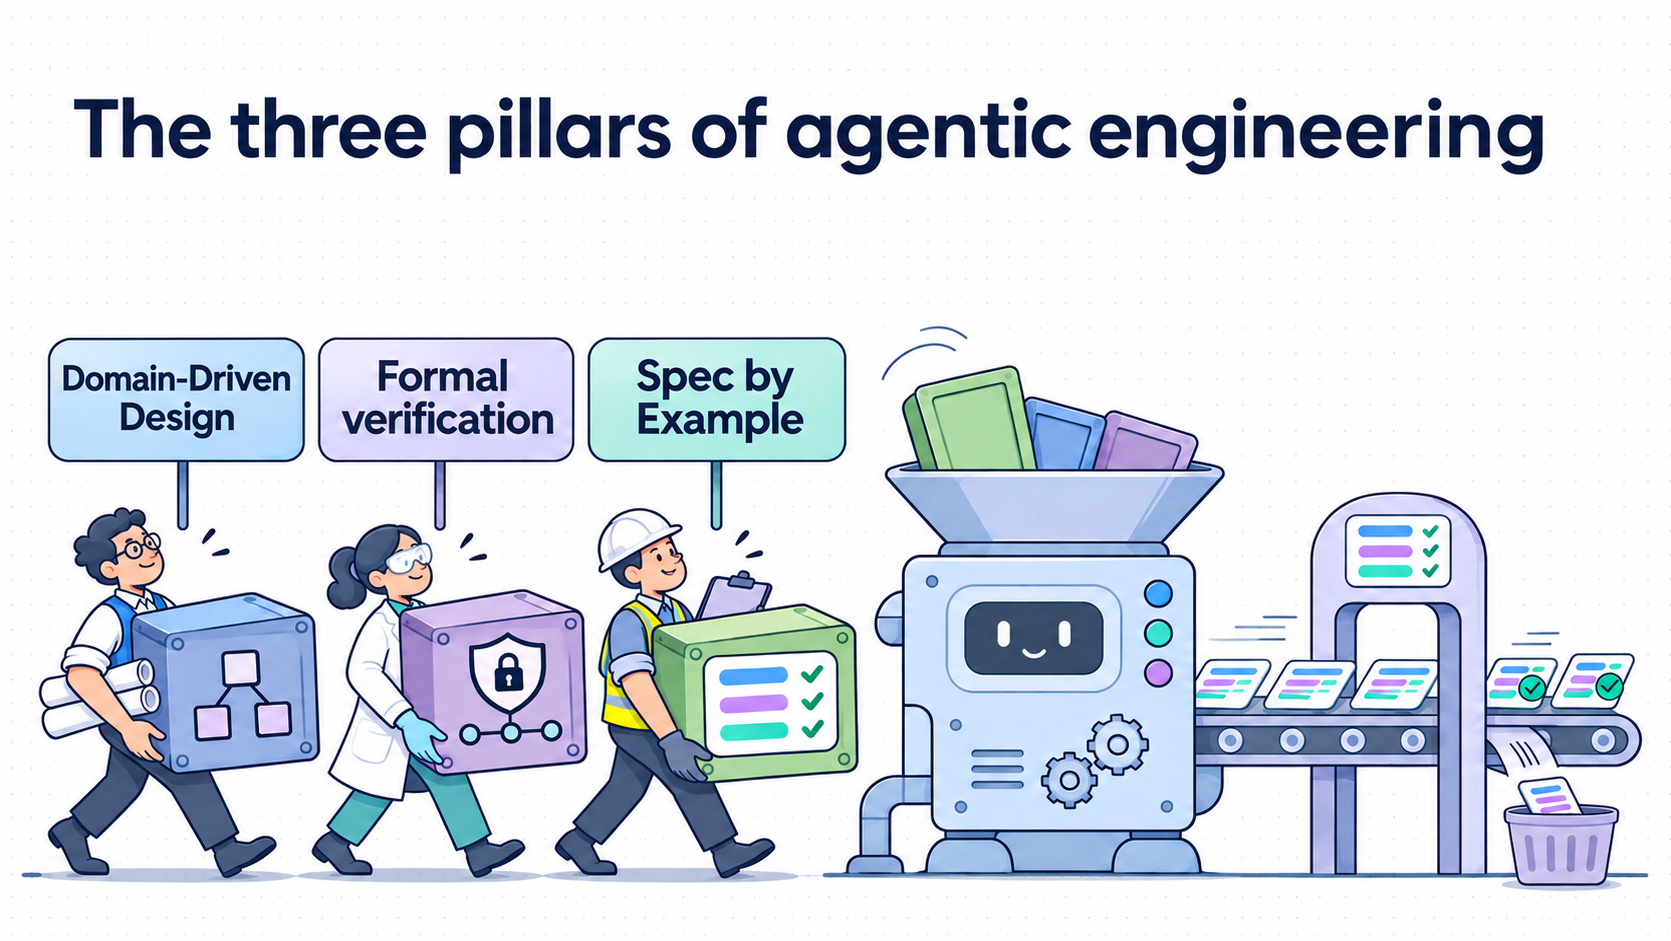
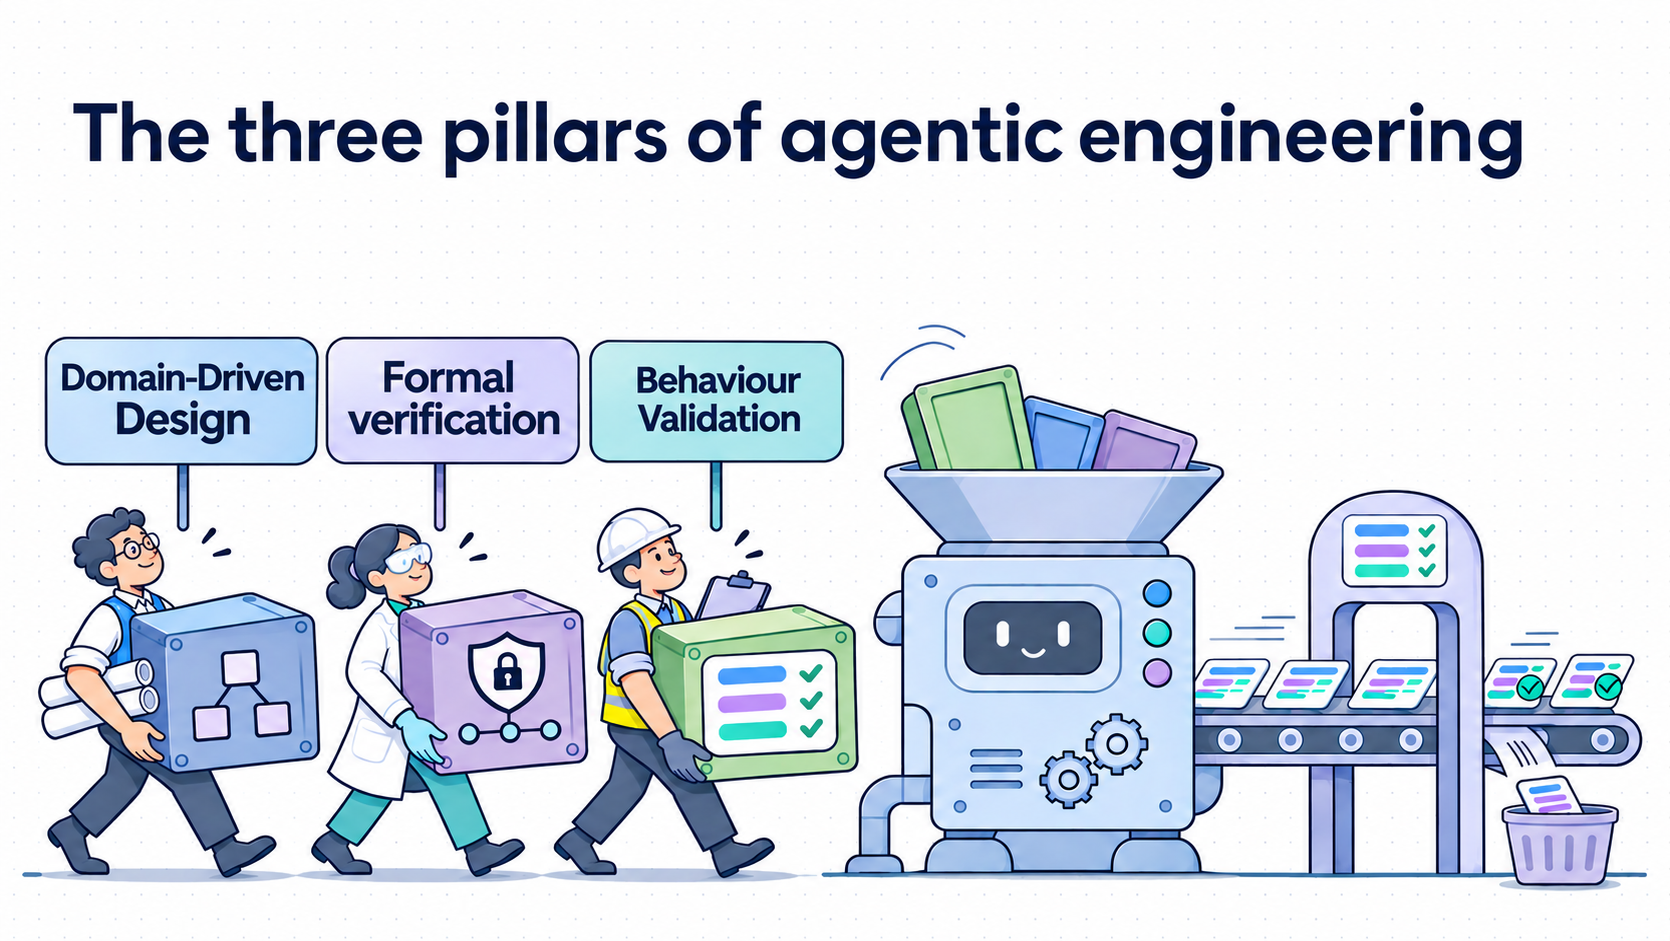
publish ddd as code

diff --git a/src/content/articles/2026-11-18-three-pillars-of-agentic-engineering.md b/src/content/articles/2026-11-18-three-pillars-of-agentic-engineering.md
@@ -9,7 +9,7 @@ tags:
   - ai
   - formal-verification
 featuredImage: assets/articles/sdd/three-pillars-of-agentic-engineering-featured.webp
-featuredImageAlt: "The three pillars of agentic engineering: Domain-Driven Design, Formal Verification and Specification by Example."
+featuredImageAlt: "The three pillars of agentic engineering: Domain-Driven Design, Formal Verification and Behaviour Validation."
 readingTime: "3 min read"
 lang: en
 draft: false
@@ -28,7 +28,7 @@ Both strategic and tactical: bounded contexts, context maps, aggregate boundarie
 
 Now the challenge is not only understanding the business, but to create specs with those findings, concise enough for a human engineer to design and review it, and expressive enough for an AI agent to get a complete understanding. That is the idea behind DDD as Code: specs as model blueprints both humans and agents can understand.
 
-![The three pillars of agentic engineering: an architect, a scientist and a site inspector carry crates labelled Domain-Driven Design, Formal verification and Spec by Example into a robot machine, whose fast stream of code is filtered by an examples gate.](/assets/articles/sdd/three-pillars-of-agentic-engineering-comic.webp)
+![The three pillars of agentic engineering: an architect, a scientist and a site inspector carry crates labelled Domain-Driven Design, Formal verification and Behaviour Validation into a robot machine, whose fast stream of code passes through a validation gate that sends the failing pieces to the bin.](/assets/articles/sdd/three-pillars-of-agentic-engineering-comic.webp)
 
 ## 2. Proving the design is correct: Formal Verification
 
@@ -56,4 +56,4 @@ This is the first post of a series, one post per pillar:
 
 - Three pillars: Domain-Driven Design as code (coming next)
 - Three pillars: Formal verification in the age of agentic engineering (coming next)
-- Three pillars: Specification by Example (coming next)
+- Three pillars: Behaviour Validation (coming next)

diff --git a/src/content/articles/2026-11-19-three-pillars-domain-driven-design-as-code.md b/src/content/articles/2026-11-19-three-pillars-domain-driven-design-as-code.md
@@ -1,5 +1,5 @@
 ---
-title: "Three pillars: Domain-Driven Design as code"
+title: "Three pillars: Domain-Driven Design as Code"
 summary: "Domain-Driven Design gives us the tools and the mental frame to understand the business. The challenge now is to write those findings down as a spec both humans and agents can work on. EventStorming in its two sizes: process-level and design-level, and two languages that turn them into code: ZFL and ZDL."
 date: 2026-11-19
 tags:
@@ -11,7 +11,7 @@ featuredImage: assets/articles/sdd/domain-driven-design-as-code-featured.webp
 featuredImageAlt: "Domain Driven Design as code: Event Storming boards, state machines and class diagrams become two text files, place-order.zfl at process level and payments-processing.zdl at design level, linked by the authorizePayment name."
 readingTime: "10 min read"
 lang: en
-draft: true
+draft: false
 featured: false
 ---
 
